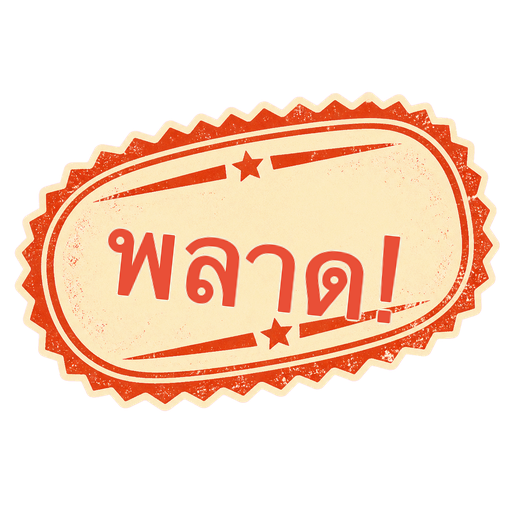
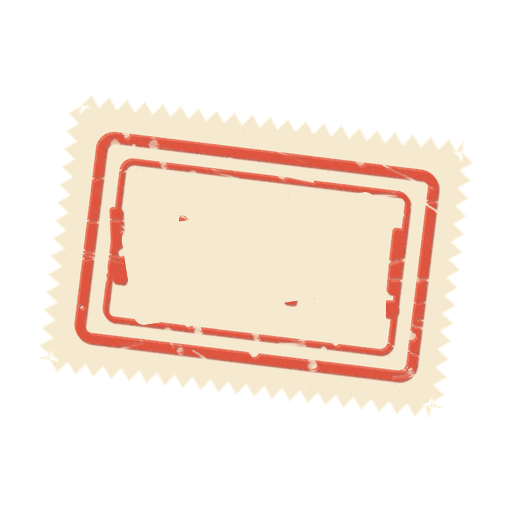
Real-font พลาด! stamp, image caught-badge, bigger pool peek, asset preloader
- AI image generators mangle Thai lettering (the redone พลาด! stamp
  read like gibberish). Solution: locally erased the baked text from
  the plate with ImageMagick, and the app now overlays a real-font
  "พลาด!" rotated to match — always spelled right, always crisp
  (v=5). The จับได้! stamp stays as-is; Codex's จับแล้ว badge came out
  clean and now stamps caught-spy photos as an image (text fallback).
- Pool peek button: no more circle chip — the dock gacha icon floats
  large on the machine's corner per the boss.
- All game art now preloads in the background from app start (4-lane
  queue, starts 800ms after boot so the splash paints first) — no more
  images popping in when a scene is first visited; 58 assets warmed
  on boot in dev verification.

98/98 tests, build passes; stamp overlay and preloader verified
in-browser.

Changed region(s): [[0.0312, 0.1875, 1.0, 0.8125], [0.3438, 0.4062, 0.375, 0.4375]]

diff --git a/app/src/styles/global.css b/app/src/styles/global.css
@@ -1190,6 +1190,53 @@ h1 {
   width: min(220px, 26dvh);
   margin: 0 auto;
 }
+/* ตราพลาด: แผ่นเปล่า + ตัวอักษรจริงหมุนตามป้าย (ฟอนต์ไทยจาก AI เพี้ยน) */
+.vote-stamp-wrap {
+  position: relative;
+  width: min(220px, 26dvh);
+  margin: 0 auto;
+  animation: stamp-slam 0.45s cubic-bezier(0.2, 1.6, 0.4, 1) both;
+}
+.vote-stamp-wrap .vote-stamp { width: 100%; animation: none; }
+.vote-stamp-wrap__text {
+  position: absolute;
+  inset: 0;
+  display: grid;
+  place-items: center;
+  transform: rotate(-9deg);
+  color: #d6503a;
+  font-weight: 1000;
+  font-size: clamp(34px, 6.4dvh, 56px);
+  letter-spacing: 2px;
+  opacity: 0.9;
+  pointer-events: none;
+}
+/* ตราจับแล้วแบบรูป ปั๊มทับรูปสายลับ */
+img.end-spy-card__stamp-img {
+  position: absolute;
+  top: 38%;
+  left: 50%;
+  width: 96%;
+  transform: translate(-50%, -50%);
+  object-fit: contain;
+  filter: drop-shadow(0 2px 3px rgba(0, 0, 0, 0.3));
+  pointer-events: none;
+}
+/* fallback ตอนรูปตราโหลดไม่ได้ — กลับไปใช้ป้ายข้อความเดิม */
+span.end-spy-card__stamp-img {
+  position: absolute;
+  top: 34%;
+  left: 50%;
+  transform: translate(-50%, -50%) rotate(-14deg);
+  border: 3px solid #e94f37;
+  border-radius: 8px;
+  color: #e94f37;
+  background: rgba(251, 247, 239, 0.85);
+  font-weight: 1000;
+  font-size: clamp(13px, 2dvh, 17px);
+  padding: 2px 10px;
+  letter-spacing: 1px;
+}
 /* การ์ดสายลับที่เพิ่งโดนจับบนหน้าผล — ย่อมกว่าเวอร์ชันฉากจบ ให้หน้าผลจบจอเดียว */
 .result-caught-card .end-spy-card__photo {
   width: clamp(76px, 14dvh, 120px);
@@ -1831,29 +1878,28 @@ h1 {
   flex-shrink: 0;
 }
 
-/* ปุ่มส่องของในตู้ — มุมขวาบนของการ์ดตู้กาชา */
+/* ปุ่มส่องของในตู้ — ไอคอนกาชาลอยมุมขวาบนการ์ดตู้ (ไม่มีกรอบ ใหญ่เห็นชัด) */
 .pool-peek-btn {
   position: absolute;
-  top: -12px;
-  right: -12px;
+  top: -18px;
+  right: -18px;
   z-index: 2;
-  width: clamp(44px, 7dvh, 58px);
-  height: clamp(44px, 7dvh, 58px);
-  border: 3px solid #20263f;
-  border-radius: 50%;
-  background: #f5e9d0;
-  font-size: clamp(20px, 3.4dvh, 28px);
+  width: clamp(64px, 10.5dvh, 92px);
+  height: clamp(64px, 10.5dvh, 92px);
+  border: none;
+  background: transparent;
+  padding: 0;
   cursor: pointer;
-  box-shadow: 0 5px 0 rgba(0, 0, 0, 0.25);
   display: grid;
   place-items: center;
+  filter: drop-shadow(0 5px 6px rgba(0, 0, 0, 0.35));
 }
-.pool-peek-btn:active { transform: translateY(3px); box-shadow: 0 2px 0 rgba(0, 0, 0, 0.25); }
+.pool-peek-btn:active { transform: translateY(3px) scale(0.94); }
 .pool-peek-btn__icon {
-  width: 78%;
-  height: 78%;
+  width: 100%;
+  height: 100%;
   object-fit: contain;
-  border-radius: 10px;
+  border-radius: 16px;
 }
 
 /* โชว์ไอเทมที่สุ่มได้ ใหญ่เต็มตา ก่อนกดใส่กระเป๋า */

diff --git a/app/src/features/vote/VoteResultScene.tsx b/app/src/features/vote/VoteResultScene.tsx
@@ -1,6 +1,7 @@
 import { useEffect, useRef, useState } from "react";
 import { playDrum, playFanfare, playLose } from "../../audio/sounds";
 import { buzz } from "../../ui/haptics";
+import { ThemedIcon } from "../../ui/components/ThemedIcon";
 import { gameAssets } from "../../data/assets";
 import { advanceFromVoteResult, finalizeVoteRound } from "../../state/actions";
 import { useGameStore } from "../../state/useGameStore";
@@ -75,12 +76,25 @@ export function VoteResultScene() {
   return (
     <div className="reveal-stage">
     <section className="scene-panel result-scene">
-      <img
-        className="vote-stamp"
-        src={result.publicResult === "caughtSpy" ? gameAssets.voteWinStamp : gameAssets.voteLoseStamp}
-        alt=""
-        onError={(event) => { event.currentTarget.style.display = "none"; }}
-      />
+      {result.publicResult === "caughtSpy" ? (
+        <img
+          className="vote-stamp"
+          src={gameAssets.voteWinStamp}
+          alt=""
+          onError={(event) => { event.currentTarget.style.display = "none"; }}
+        />
+      ) : (
+        /* ตราพลาด: แผ่นตราเปล่า + ตัวอักษรจริงวางทับ (ฟอนต์ไทยจาก AI เพี้ยน เลยพิมพ์เองให้คม) */
+        <div className="vote-stamp-wrap">
+          <img
+            className="vote-stamp"
+            src={gameAssets.voteLoseStamp}
+            alt=""
+            onError={(event) => { event.currentTarget.style.display = "none"; }}
+          />
+          <span className="vote-stamp-wrap__text" aria-hidden="true">พลาด!</span>
+        </div>
+      )}
       <h2>{title}</h2>
       <p className="big-callout">
         {result.publicResult === "caughtSpy" && winner ? `${winner.name} คือสายลับตัวจริง! 🎉 จับได้แล้ว 1 คน — อีกคนยังลอยนวล ทีมได้สิทธิ์ชี้ตัวต่อทันที` : null}
@@ -98,7 +112,7 @@ export function VoteResultScene() {
               onError={(event) => { event.currentTarget.style.visibility = "hidden"; }}
             />
             <b>{winner.name}</b>
-            <span className="end-spy-card__stamp">จับแล้ว</span>
+            <ThemedIcon className="end-spy-card__stamp-img" src={gameAssets.stampCaught} emoji="จับแล้ว" />
           </div>
         </div>
       )}

diff --git a/app/src/data/preloadAssets.ts b/app/src/data/preloadAssets.ts
@@ -1,0 +1,35 @@
+import { gachaIconAssets, gameAssets, itemCardAssets } from "./assets";
+import { defaultPlayers } from "./players";
+
+// โหลดรูปทั้งเกมไว้เบื้องหลังตั้งแต่เปิดแอป — เข้าหน้าไหนรูปก็พร้อมทันที ไม่ต้องรอโหลด
+// ไล่ทีละชุด (จำกัดพร้อมกัน 4 รูป) กันแย่งแบนด์วิดท์กับหน้าที่กำลังแสดงอยู่
+let started = false;
+
+export function preloadAllGameAssets(): void {
+  if (started) return; // กันเรียกซ้ำ (StrictMode/re-render)
+  started = true;
+
+  const urls = [
+    ...Object.values(gameAssets),
+    ...Object.values(gachaIconAssets),
+    ...Object.values(itemCardAssets),
+    ...defaultPlayers.map((player) => player.imageUrl),
+  ];
+  const queue = [...new Set(urls)];
+
+  const loadNext = () => {
+    const url = queue.shift();
+    if (!url) return;
+    const img = new Image();
+    img.decoding = "async";
+    // โหลดต่อไม่ว่าสำเร็จหรือพัง (รูปพังมี onError fallback ในแต่ละหน้าอยู่แล้ว)
+    img.onload = loadNext;
+    img.onerror = loadNext;
+    img.src = url;
+  };
+
+  // เริ่มหลังปล่อยให้หน้าแรกวาดเสร็จก่อน แล้วค่อยลากที่เหลือเข้ามาเงียบๆ
+  window.setTimeout(() => {
+    for (let lane = 0; lane < 4; lane += 1) loadNext();
+  }, 800);
+}

diff --git a/app/src/App.tsx b/app/src/App.tsx
@@ -1,6 +1,7 @@
 import { useEffect } from "react";
 import { playClick, setSoundEnabled } from "./audio/sounds";
 import { gameAssets } from "./data/assets";
+import { preloadAllGameAssets } from "./data/preloadAssets";
 import { ThemedIcon } from "./ui/components/ThemedIcon";
 import { BootScreen } from "./features/boot/BootScreen";
 import { EndGameScene } from "./features/end/EndGameScene";
@@ -30,6 +31,10 @@ function AppRouter() {
   useEffect(() => {
     setSoundEnabled(state.settings.soundEnabled);
   }, [state.settings.soundEnabled]);
+  // อุ่นรูปทั้งเกมไว้เบื้องหลังตั้งแต่เปิดแอป — เปลี่ยนหน้าแล้วรูปไม่ดีเลย์
+  useEffect(() => {
+    preloadAllGameAssets();
+  }, []);
   // บอกฉากปัจจุบันให้ html canvas สลับภาพพื้นหลังตาม (global.css: html[data-scene=...])
   // — แถบ safe-area ล่างบน iPad ที่เลเยอร์ fixed ทาไม่ถึง จะโชว์ภาพฉากเดียวกันแทนสีพื้น
   useEffect(() => {

diff --git a/app/src/data/assets.ts b/app/src/data/assets.ts
@@ -34,7 +34,10 @@ export const gameAssets = {
 
   // ตราผลโหวต + เบ็ดเตล็ดแฟ้มคดี
   voteWinStamp: `${BASE}/vote-win-stamp.webp?v=3`,
-  voteLoseStamp: `${BASE}/vote-lose-stamp.webp?v=4`, // v=4: โทนครีม/แดงอิฐ มองเห็นบนพื้นน้ำเงิน (codex)
+  // v=5: แผ่นตราเปล่า (AI เจนตัวอักษรไทยเพี้ยน → แอปวางคำว่า "พลาด!" ด้วยฟอนต์จริงทับเอง)
+  voteLoseStamp: `${BASE}/vote-lose-stamp.webp?v=5`,
+  // ตรา "จับแล้ว" สำหรับปั๊มทับรูปสายลับที่โดนรวบ (codex)
+  stampCaught: `${BASE}/stamp-caught.webp?v=1`,
   clueCardFrame: `${BASE}/clue-card-frame.webp?v=3`,
   spyPoolBanner: `${BASE}/spy-pool-banner.webp?v=3`,
 

diff --git a/app/src/features/end/EndGameScene.tsx b/app/src/features/end/EndGameScene.tsx
@@ -4,6 +4,7 @@ import { gameAssets } from "../../data/assets";
 import { useGameStore } from "../../state/useGameStore";
 import { GameButton } from "../../ui/components/GameButton";
 import { buzz } from "../../ui/haptics";
+import { ThemedIcon } from "../../ui/components/ThemedIcon";
 
 const CONFETTI_PIECES = Array.from({ length: 26 }, (_, index) => index);
 
@@ -61,7 +62,7 @@ export function EndGameScene() {
                         onError={(event) => { event.currentTarget.style.visibility = "hidden"; }}
                       />
                       <b>{spy.name}</b>
-                      {teamWon && <span className="end-spy-card__stamp">จับแล้ว</span>}
+                      {teamWon && <ThemedIcon className="end-spy-card__stamp-img" src={gameAssets.stampCaught} emoji="จับแล้ว" />}
                     </div>
                   ))}
                 </div>
